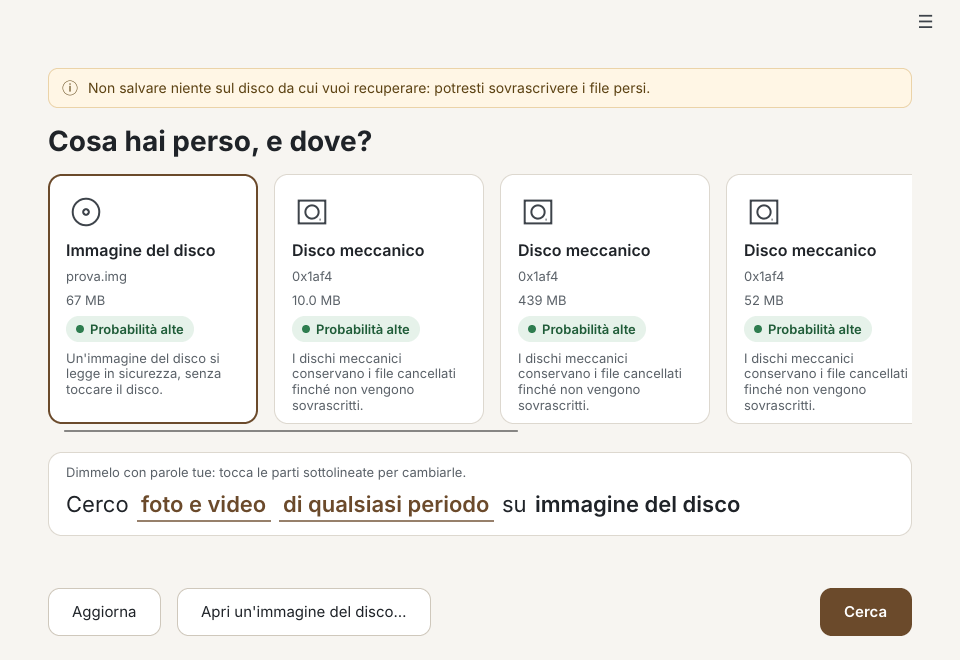
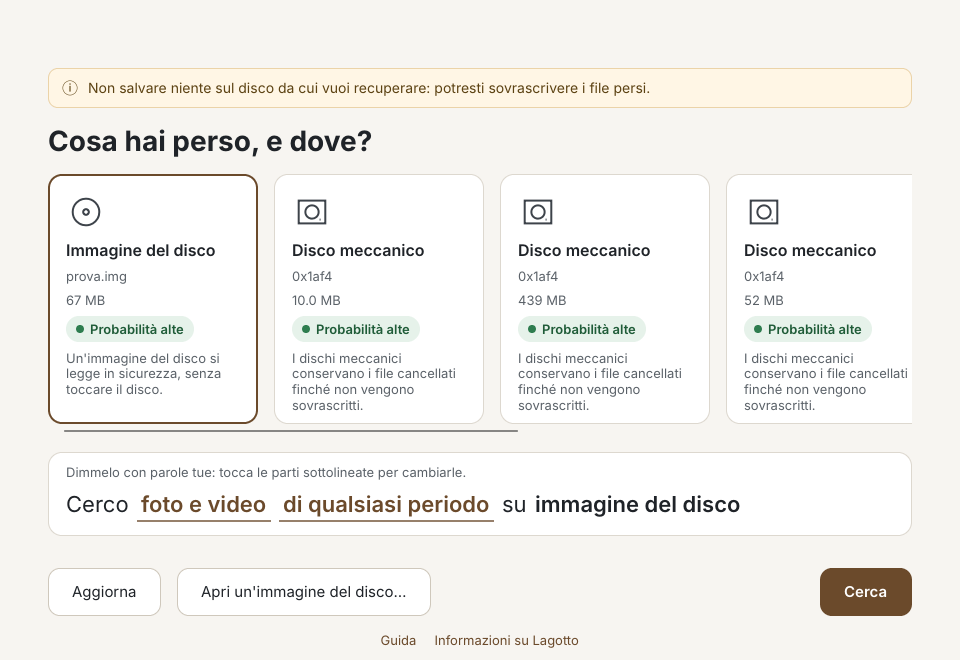
No menu: actions in sight; moment dates in local time; signed updates repository for dnf and Discover
Claude-Session: https://claude.ai/code/session_011dVyVcrCrEY7FKnUo8RDj9

diff --git a/crates/lagotto-core/src/moments.rs b/crates/lagotto-core/src/moments.rs
@@ -34,6 +34,32 @@ pub fn ymd(secs: i64) -> (i64, u32, u32) {
     (if m <= 2 { y + 1 } else { y }, m, d)
 }
 
+extern "C" {
+    // Rilegge il fuso orario (variabile TZ o /etc/localtime).
+    fn tzset();
+}
+
+/// Scarto dell'ora locale del computer in quell'istante (ora legale compresa),
+/// in secondi. Se il sistema non lo sa, 0 (UTC).
+pub fn local_offset(secs: i64) -> i64 {
+    // SAFETY: localtime_r scrive solo nella struttura che gli passiamo.
+    unsafe {
+        let t = secs as libc::time_t;
+        let mut tm: libc::tm = std::mem::zeroed();
+        tzset();
+        if libc::localtime_r(&t, &mut tm).is_null() {
+            0
+        } else {
+            tm.tm_gmtoff as i64
+        }
+    }
+}
+
+/// Data civile nell'ora locale del computer: quella da mostrare all'utente.
+pub fn local_ymd(secs: i64) -> (i64, u32, u32) {
+    ymd(secs + local_offset(secs))
+}
+
 /// Raggruppa i file in momenti. Restituisce i momenti (dal più recente) e
 /// gli id dei file che non stanno in nessun momento.
 pub fn group(files: &[FoundFile]) -> (Vec<Moment>, Vec<usize>) {
@@ -103,6 +129,17 @@ mod tests {
         assert_eq!(ymd(0), (1970, 1, 1));
         assert_eq!(ymd(1_786_492_800), (2026, 8, 12));
         assert_eq!(ymd(951_782_400), (2000, 2, 29));
+    }
+
+    #[test]
+    fn local_dates() {
+        // Ora di Perth (UTC+8) scritta come regola POSIX: non servono i dati tz.
+        std::env::set_var("TZ", "AWST-8");
+        // 11 agosto 2026, 20:00 UTC = 12 agosto, 04:00 a Perth.
+        let t = 1_786_492_800 - 4 * 3600;
+        assert_eq!(ymd(t), (2026, 8, 11));
+        assert_eq!(local_offset(t), 8 * 3600);
+        assert_eq!(local_ymd(t), (2026, 8, 12));
     }
 
     #[test]

diff --git a/crates/lagotto-ui/src/main.rs b/crates/lagotto-ui/src/main.rs
@@ -7,7 +7,7 @@ use lagotto_core::carve::{start_direct, CarveJob};
 use lagotto_core::disks::{human_size, list_disks};
 use lagotto_core::found::{FileKind, FileState, FoundFile};
 use lagotto_core::helper::HelperReader;
-use lagotto_core::moments::{group, ymd, Moment};
+use lagotto_core::moments::{group, local_ymd as ymd, Moment};
 use lagotto_core::recover::{check_destination, recover, Options};
 use lagotto_core::scan::{scan, DirectReader, Event, Reader, Target};
 use lagotto_core::{notice, Disk, DiskKind, LagottoError, Probability};
@@ -1201,6 +1201,10 @@ fn main() -> Result<(), slint::PlatformError> {
             let ui = w.unwrap();
             if ui.get_screen() <= 1 {
                 return;
+            }
+            // Una ricerca ancora in corso si ferma prima.
+            if ui.get_scanning() {
+                ui.invoke_pause_scan();
             }
             {
                 let mut s = st.lock().unwrap();

diff --git a/README.it.md b/README.it.md
@@ -27,7 +27,7 @@ Al primo avvio Lagotto ti chiede di accettare questo avviso; senza accettazione 
 
 ## Come funziona
 
-Tre passaggi, una sola finestra, un pulsante ☰ per il resto. Lagotto è uguale su KDE Plasma, GNOME, Xfce, Cinnamon e ogni altro ambiente desktop.
+Tre passaggi, una sola finestra, nessun menu: tutto quello che serve è in vista. Lagotto è uguale su KDE Plasma, GNOME, Xfce, Cinnamon e ogni altro ambiente desktop.
 
 1. **Cosa hai perso, e dove?** Scegli il disco. Ogni disco mostra le sue probabilità: *alte* per chiavette, schede della fotocamera e dischi meccanici; *basse* per gli SSD che svuotano i file cancellati (TRIM) e per i dischi cifrati. Poi completa la frase *"Cerco foto e video di qualsiasi periodo sulla chiavetta USB"* toccando le parole sottolineate.
 2. **Il Lagotto annusa, in due fasi.** La fase 1 trova i file cancellati con il loro nome (The Sleuth Kit); la fase 2, se la vuoi, ricostruisce i file senza nome dal contenuto grezzo (PhotoRec) e li salva subito in una cartella su un altro disco. Le due fasi sono indicate in alto, il disco è disegnato come il pelo riccio del Lagotto e il *diario del fiuto* racconta cosa succede, con parole normali. La fase 2 si può sospendere e riprendere. Sul disco da cui recuperi non viene scritto niente.
@@ -51,13 +51,15 @@ Per leggere un disco vero servono i permessi di amministratore: Lagotto chiede l
 
 ## Installazione
 
-**Fedora (e altre distribuzioni RPM):** scarica `lagotto-….rpm` dall'[ultima release](https://github.com/outlook791/Lagotto/releases/latest), poi:
+**Fedora:** aggiungi il repository di Lagotto e installalo:
 
 ```sh
-sudo dnf install ./lagotto-*.rpm
+sudo curl -fsSLo /etc/yum.repos.d/lagotto.repo https://outlook791.github.io/Lagotto/rpm/lagotto.repo && sudo dnf install lagotto
 ```
 
-Installa anche ciò che serve a Lagotto (The Sleuth Kit, TestDisk). Lagotto compare poi nel menu delle applicazioni. Per toglierlo: `sudo dnf remove lagotto`.
+La prima volta dnf chiede di accettare la chiave che firma i pacchetti di Lagotto. Installa anche ciò che serve a Lagotto (The Sleuth Kit, TestDisk), e Lagotto compare nel menu delle applicazioni. **Gli aggiornamenti arrivano da soli**, insieme a quelli del sistema: in Discover, GNOME Software o con `sudo dnf upgrade`. Per toglierlo: `sudo dnf remove lagotto`.
+
+In alternativa il file `lagotto-….rpm` è anche nell'[ultima release](https://github.com/outlook791/Lagotto/releases/latest) (`sudo dnf install ./lagotto-*.rpm`): installa lo stesso repository, quindi anche così gli aggiornamenti arrivano da soli.
 
 I pacchetti per le altre distribuzioni arriveranno.
 

diff --git a/README.md b/README.md
@@ -27,7 +27,7 @@ Lagotto asks you to accept this the first time it starts; without acceptance it 
 
 ## How it works
 
-Three steps, one window, a ☰ button for the rest. Lagotto looks the same on KDE Plasma, GNOME, Xfce, Cinnamon and every other desktop.
+Three steps, one window, no menus: everything you need is in sight. Lagotto looks the same on KDE Plasma, GNOME, Xfce, Cinnamon and every other desktop.
 
 1. **What did you lose, and where?** Choose the disk. Each disk shows its chances: *high* for USB sticks, camera cards and hard disks; *low* for SSDs that empty deleted files (TRIM), and for encrypted disks. Then complete the sentence *"I'm looking for photos and videos from any time on the USB stick"* by tapping the underlined words.
 2. **Lagotto sniffs, in two phases.** Phase 1 finds deleted files with their names (The Sleuth Kit); phase 2, if you want it, rebuilds files without names from the raw content (PhotoRec) and saves them straight into a folder on another disk. The two phases are shown at the top, the disk is drawn like Lagotto's curly coat, and the *sniffing diary* tells you what is happening in plain words. Phase 2 can be paused and resumed. Nothing is written on the disk you recover from.
@@ -51,13 +51,15 @@ Reading a real disk needs administrator permission: Lagotto asks for your passwo
 
 ## Install
 
-**Fedora (and other RPM distributions):** download `lagotto-….rpm` from the [latest release](https://github.com/outlook791/Lagotto/releases/latest), then:
+**Fedora:** add the Lagotto repository and install it:
 
 ```sh
-sudo dnf install ./lagotto-*.rpm
+sudo curl -fsSLo /etc/yum.repos.d/lagotto.repo https://outlook791.github.io/Lagotto/rpm/lagotto.repo && sudo dnf install lagotto
 ```
 
-It also installs what Lagotto needs (The Sleuth Kit, TestDisk). Lagotto then appears in the app menu. To remove it: `sudo dnf remove lagotto`.
+The first time, dnf asks you to accept the key that signs Lagotto's packages. It also installs what Lagotto needs (The Sleuth Kit, TestDisk), and Lagotto appears in the app menu. **Updates arrive by themselves**, together with the system ones: in Discover, GNOME Software or with `sudo dnf upgrade`. To remove it: `sudo dnf remove lagotto`.
+
+The `lagotto-….rpm` file is also in the [latest release](https://github.com/outlook791/Lagotto/releases/latest) (`sudo dnf install ./lagotto-*.rpm`): it installs the same repository, so updates arrive by themselves this way too.
 
 Packages for other distributions will follow.
 
